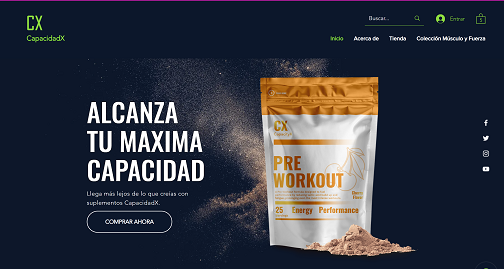
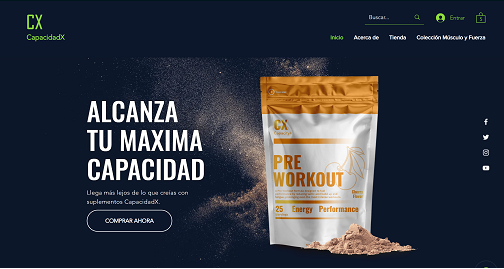
ultime

diff --git a/index.html b/index.html
@@ -67,9 +67,9 @@
 		<div class="portafolioGrip">
 			<a href="#" class="wowload"><div class="div_img_trajos"><img class="img_trabajo" src="img/portafol.png"></div></a>
 
-			<a href="https://larezdeivys.github.io/Pagina-Empresarial-uno/" class="wowload"><div class="div_img_trajos"><img class="img_trabajo" src="img/PaginasWeb_TheBestCompany_index.png"></div></a>
+			<a href="https://larezdeivys.github.io/Pagina-Empresarial-uno/" class="wowload" target="_blank"><div class="div_img_trajos"><img class="img_trabajo" src="img/PaginasWeb_TheBestCompany_index.png"></div></a>
 			
-			<a href="https://larezdeivys.github.io/Distribuidora-De-Alimentos/" class="wowload"><div class="div_img_trajos"><img class="img_trabajo" src="img/PaginasWeb_Pantalla_DistribuidorDisa_HTML_index.html.png"></div></a>
+			<a href="https://larezdeivys.github.io/Distribuidora-De-Alimentos/" class="wowload" target="_blank"><div class="div_img_trajos"><img class="img_trabajo" src="img/PaginasWeb_Pantalla_DistribuidorDisa_HTML_index.html.png"></div></a>
 			
 			<a href="https://larezdeivys.github.io/Restaurante-Italiano/" class="wowload"><div class="div_img_trajos"><img class="img_trabajo" src="img/PaginasWeb_Pantalla_restaurante_html_index.html.png"></div></a>
 
@@ -210,10 +210,12 @@
 		<h2 class="wowload"><span lang="en">About me | </span>Sobre mí</h2>
 	<div class="sobreMiFlex">
 		<div class="sobreMi-info">
-			<p class="wowload" lang="es">Mi nombre es Deivys Roberto Lárez Rivas, soy estudiante de la UDO Universidad de Oriente núcleo Sucre en Venezuela.  Donde cursó la carrera Licenciatura en Informática, inclinándome por la rama del Desarrollo web enfocado principalmente como Frontend Developer.</p></br>
+			<!-- <p class="wowload" lang="es">Mi nombre es Deivys Roberto Lárez Rivas, soy estudiante de la UDO Universidad de Oriente núcleo Sucre en Venezuela.  Donde cursó la carrera Licenciatura en Informática, inclinándome por la rama del Desarrollo web enfocado principalmente como Frontend Developer.</p></br> -->
 			<!-- <p class="wowload" lang="en">My name is Deivys Larez, I am a student at the UDO Universidad de Oriente núcleo Sucre in Venezuela. Where he studied the career Bachelor of Computer Science, leaning towards the branch of Web Development focused mainly as frontend Developer.</p></br> -->
-			<p class="wowload" lang="es">Soy muy competente, responsable y atento con las cosas que han de gustar como es el caso del Desarrollo Web, como persona siempre estoy alegre, soy colaborador, optimista, proactivo, me gusta enfrentarme a nuevos retos, me gusta el trabajo en equipo, aporto ideas cuando se necesita de mi opinión y a la ves soy muy bueno para escuchar al resto del equipo, soy amante de la buena comida, el buen cine y mi tiempo libre lo aprovecho para compartir en familia, para hacer ejercicios, para estudiar nuevas tecnologías y soy amante cien por ciento a los deportes de resistencia fisica en especial el ciclismo y el trote.</p>
+			<!-- <p class="wowload" lang="es">Soy muy competente, responsable y atento con las cosas que han de gustar como es el caso del Desarrollo Web, como persona siempre estoy alegre, soy colaborador, optimista, proactivo, me gusta enfrentarme a nuevos retos, me gusta el trabajo en equipo, aporto ideas cuando se necesita de mi opinión y a la ves soy muy bueno para escuchar al resto del equipo, soy amante de la buena comida, el buen cine y mi tiempo libre lo aprovecho para compartir en familia, para hacer ejercicios, para estudiar nuevas tecnologías y soy amante cien por ciento a los deportes de resistencia fisica en especial el ciclismo y el trote.</p> -->
 			<!-- <p class="wowload" lang="en">I am very competent, responsible and attentive to the things that have to like how is the case of web development, as a person I am always happy, I am collaborative, optimistic, I like to face new challenges, I like teamwork, I contribute ideas when my opinion is needed and at the same time I am good at listening to the rest of the team, I am a lover of good food, good cinema and I take advantage of my free time to share with my family, to exercise, to study new technologies and I am one hundred percent a lover of physical endurance sports, especially cycling and jogging.</p> -->
+			<p class="wowload" lang="es">Soy un estudiante apasionado en la Universidad de Oriente, Núcleo Sucre en Venezuela, donde me especializo en Desarrollo Web con un enfoque particular en el Desarrollo Frontend. Combino mi destreza técnica con mi actitud positiva y entusiasta para afrontar desafíos.</p></br>
+			<p class="wowload" lang="es">Como colaborador soy super comprometido, tengo buenas habilidades para trabajar en equipo, aportando ideas innovadoras y demostrando capacidad destacada para escuchar y apoyar a mis compañeros. Además de estar dedicado al desarrollo web, soy aficionado a la buena comida, el buen cine y mi tiempo de calidad para mi familia. Fuera del ámbito laboral, estoy muy activo y comprometido con el ejercicio, el estudio de nuevas tecnologías y me apasiono por los deportes de resistencia física, en particular el ciclismo y el jogging. Este conjunto de habilidades y pasiones me hacen un profesional integral con una mentalidad colaborativa que impulsa la innovación y el éxito para equipos de desarrollo web.</p>
 		</div>
 		<div class="social">
 			<a href="https://github.com/larezdeivys" title="Github" target="_black"><img src="img/g4.png" class="wowload"></a>

diff --git a/javascript/portafolio.js b/javascript/portafolio.js
@@ -5,8 +5,9 @@ const tec2 = ['html5','css']
 const tec3 = ['html5','css','javascript2','jquery1']
 const tec4 = ['html5','css','javascript2','jquery1', 'bootstrap']
 const tec5 = ['wordpress1']
-const img = [tec3,tec,tec,tec,tec4,tec,tec,tec,tec,tec,tec,tec,tec2,tec2,tec2,tec3,tec,tec5,tec5]
-const h4 = ['Portafolio','Super Empresa', 'Distribuidora de Alimentos', 'Restaurante Italiano', 'Start Agency', 'Calculadora app', 'Empresas Win', 'Lugares de Venezuela', 'Formulario, Inscribir Curso', 'Empresa de Refrigeración', 'ColrClin app', 'ChickenFun', 'Formulario Animado', 'Games.com', 'Decayed', 'Technology', 'Carrito de Compras', 'Cemam', 'Atlas'];
+const tec6 = ['wix'];
+const img = [tec3,tec,tec,tec,tec4,tec,tec,tec,tec,tec,tec,tec,tec2,tec2,tec2,tec3,tec,tec6,tec5,tec5]
+const h4 = ['Portafolio','Super Empresa', 'Distribuidora de Alimentos', 'Restaurante Italiano', 'Start Agency', 'Calculadora app', 'Empresas Win', 'Lugares de Venezuela', 'Formulario, Inscribir Curso', 'Empresa de Refrigeración', 'ColrClin app', 'ChickenFun', 'Formulario Animado', 'Games.com', 'Decayed', 'Technology', 'Carrito de Compras', 'CX Capacidad de nutrición', 'Cemam Clínica Aeronaútica', 'Atlas Consulting'];
 
 let pos = 0
 

diff --git a/css/style.css b/css/style.css
@@ -335,7 +335,6 @@ html{
 }
 /*PORTAFOLIO*/
 .Portafolio{
-	/*margin-top: 1rem;*/
 	z-index: 50;
 	width: 100%;
 	background-color: var(--dark1);
@@ -423,7 +422,7 @@ html{
 }
 .close-tecno{
 	position: absolute;
-	top: 3rem;
+	top: 5rem;
 	right: 3rem;
 	width: 3rem;
 	height: 3rem;
@@ -482,6 +481,7 @@ html{
 	text-align: center;
 	opacity: 0;
 	animation: alter 1s forwards;
+	-webkit-animation: alter 1s forwards;
 }
 .sliderproyec span{
 	color: var(--primary);
@@ -523,6 +523,8 @@ html{
 	opacity: 0;
 	animation: magen 1s forwards;
 }
+
+
 
 /*SECCION DE HABILIDADES*/
 .habilidades{
